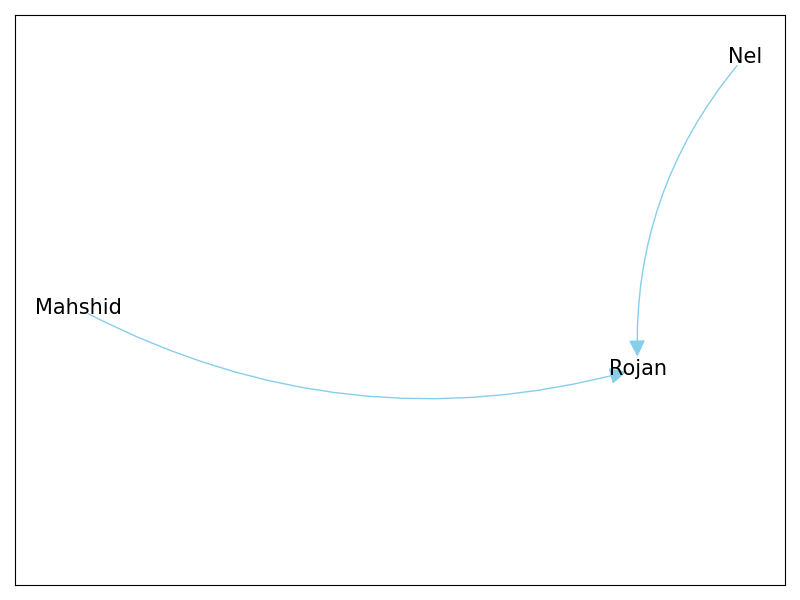
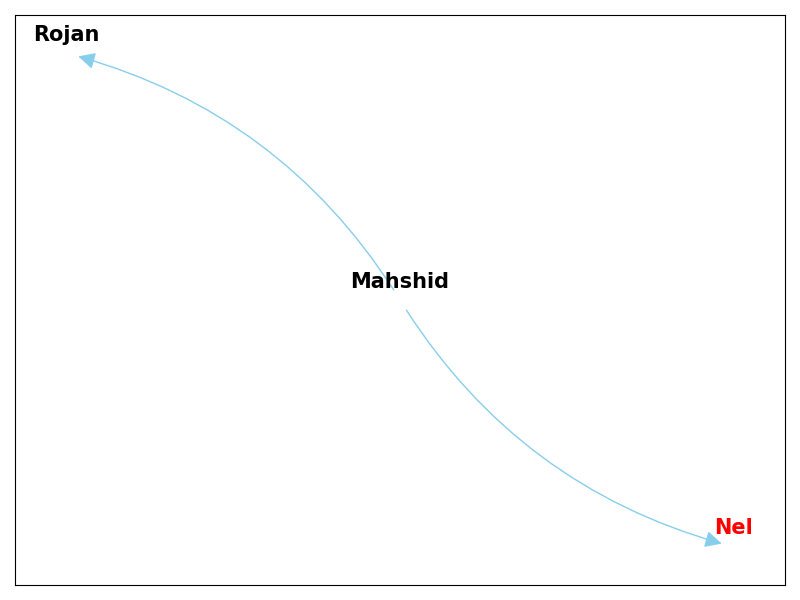
Centrality determined

diff --git a/Core/graph.py b/Core/graph.py
@@ -36,7 +36,25 @@ class Graph():
         else: graph = self.simplified_graph
         pos = nx.spring_layout(graph)
         plt.figure(figsize=(8, 6))
-        nx.draw_networkx_labels(graph, pos, font_size= 15)
+        in_degree_centrality = nx.in_degree_centrality(graph)
+        weighted_in_degree = dict(graph.in_degree(weight='weight'))
+        print(in_degree_centrality, weighted_in_degree)
+        central_node = max(weighted_in_degree, key=in_degree_centrality.get)
+
+        label_colors = {node: 'black' for node in graph.nodes()}
+        label_colors[central_node] = "red"
+
+
+        for node, (x, y) in pos.items():
+            plt.text(
+                x, y + 0.05,  # Adjust position slightly above the node
+                str(node),
+                fontsize=15,
+                color=label_colors.get(node, 'black'),  # Default to black if no color is defined
+                ha='center',
+                fontweight = "bold"
+            )
+
         # Draw edges with different connection styles for parallel edges
 
         for u, v, data in graph.edges(data=True):
@@ -58,6 +76,9 @@ class Graph():
         plt.tight_layout()
         png_path = "C:/Users/niloo/Term7/AP/Project/Splitwise-Clone-Project/Core/graph_plot.png"
         plt.savefig(png_path)
+
+
+        
 
 
 
